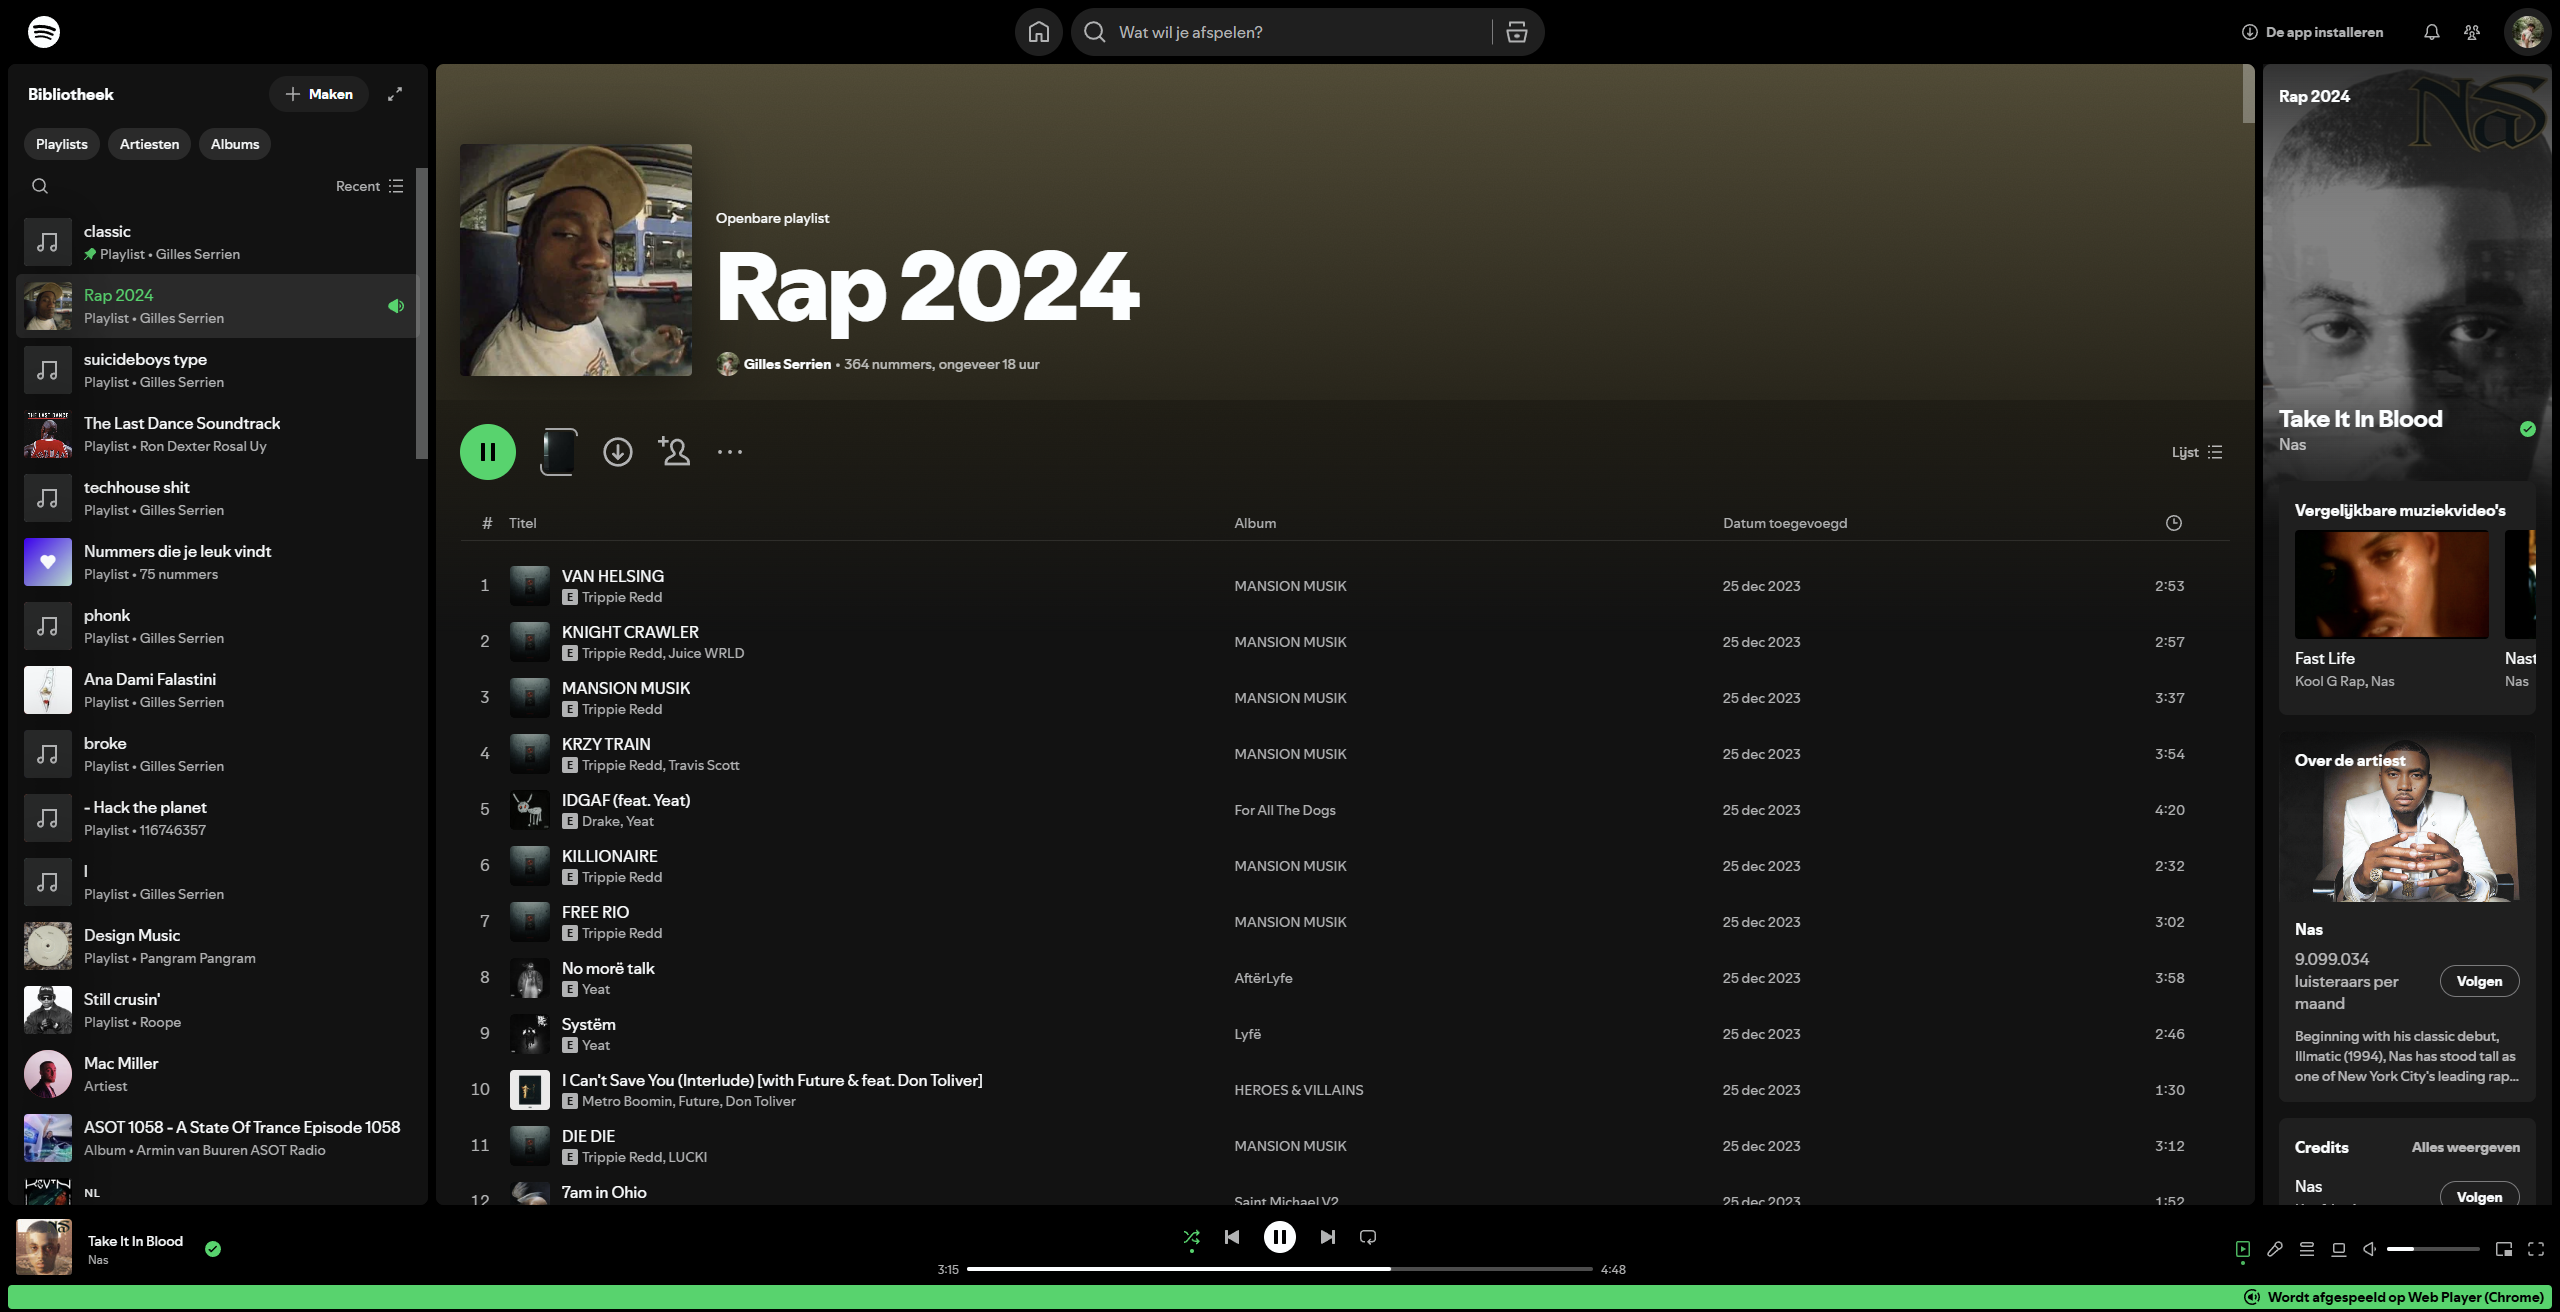
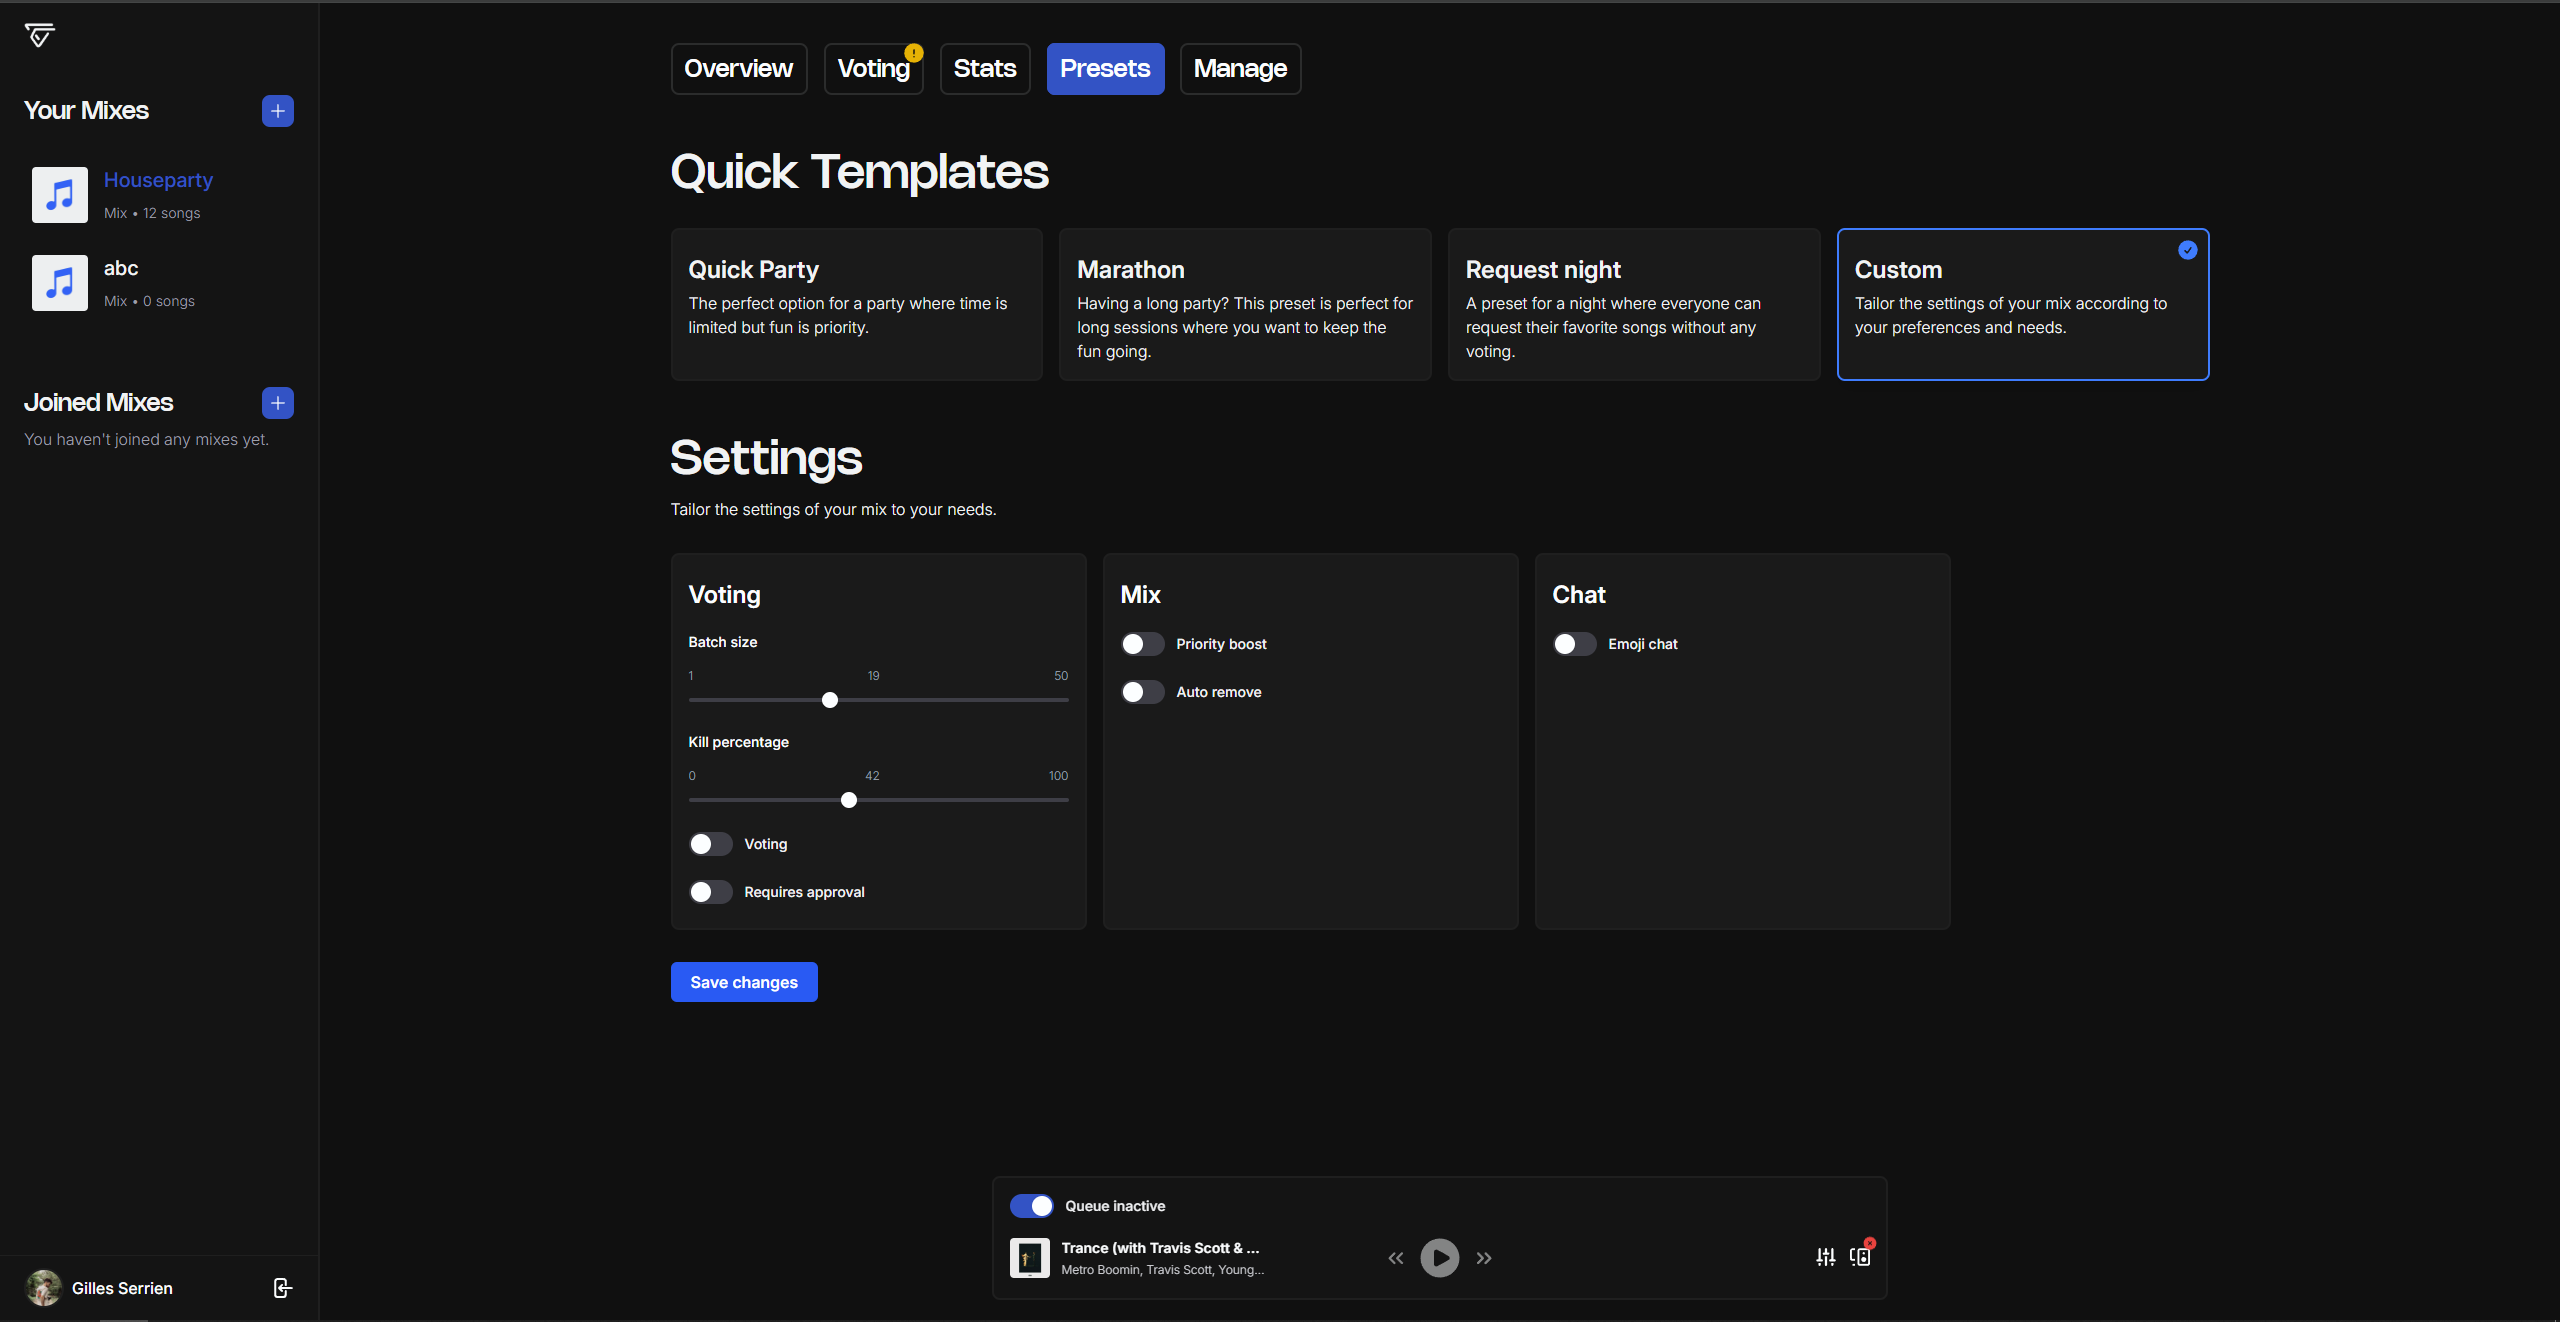
landing page changes

diff --git a/resources/css/landing.css b/resources/css/landing.css
@@ -138,10 +138,11 @@ body {
 
 .carousel-progress {
     position: relative;
-    max-width: 1000px;
+    max-width: 550px;
     top: 0px;
     height: 8px;
-    width: 80%;
+    width: 30dvw;
+    min-width: 350px;
     margin: -8px auto 0 auto;
     background-color: var(--color-card-background);
     border: 1px solid var(--color-card-stroke);
@@ -156,7 +157,7 @@ body {
     background-color: var(--color-primary);
     border-radius: 12px;
     animation-name: progress;
-    animation-duration: 5s;
+    animation-duration: 8s;
     animation-timing-function: linear;
     animation-iteration-count: 1;
 }

diff --git a/resources/views/partials/faq.blade.php b/resources/views/partials/faq.blade.php
@@ -8,20 +8,28 @@
     @php
         $faqs = [
             [
-                'question' => 'Do I need Spotify premium to use this platform?',
-                'answer' => 'Lorem ipsum dolor sit amet, consectetur adipiscing elit...',
+                'question' => 'How does the playback work?',
+                'answer' =>
+                    'Playback works by using the Spotify API to control the playback of your spotify device. You can play, pause, skip, and seek through the track using the playback controls on the web app. You can also see what track is currently playing and who is currently playing it!',
             ],
             [
-                'question' => 'How does voting work during a jam?',
-                'answer' => 'Lorem ipsum dolor sit amet, consectetur adipiscing elit...',
+                'question' => 'Do I need Spotify premium to use this platform?',
+                'answer' =>
+                    'Technically, no. However, you do need Spotify Premium to use our playback feature. You can always assign another Premium user as the co-DJ to allow playback.',
             ],
             [
                 'question' => 'Is this web application free?',
-                'answer' => 'Lorem ipsum dolor sit amet, consectetur adipiscing elit...',
+                'answer' =>
+                    'Yes! This web application is completely free to use. We do not charge any fees for using the platform. We might however add a some "premium" features in the future, but the core functionality will always be free.',
             ],
             [
-                'question' => 'Can I customize the look and theme of my jam session?',
-                'answer' => 'Lorem ipsum dolor sit amet, consectetur adipiscing elit...',
+                'question' => 'Do you use my Spotify data?',
+                'answer' => 'For more information on data, please refer to our privacy policy.',
+            ],
+            [
+                'question' => 'Can I customize the look and theme of my mix session?',
+                'answer' =>
+                    'Of course! We have a few themes - birthday party, halloween, .. - to choose from with some customization options. You can also add a custom cover image to your mix session.',
             ],
         ];
     @endphp
@@ -39,7 +47,7 @@
 
                 <div class="relative overflow-hidden transition-all max-h-0 duration-400" x-ref="container"
                     x-bind:style="open ? 'max-height: ' + $refs.container.scrollHeight + 'px' : ''">
-                    <div class="px-4 pb-4">
+                    <div class="px-4 pb-4 max-w-7xl">
                         <p class="text-l font-normal">{{ $faq['answer'] }}</p>
                     </div>
                 </div>

diff --git a/resources/views/partials/how-it-works.blade.php b/resources/views/partials/how-it-works.blade.php
@@ -2,20 +2,21 @@
     $steps = [
         [
             'step' => '1',
-            'title' => 'Create a jam',
+            'title' => 'Create a mix',
             'description' =>
-                'Easily create a new jam session with your Spotify Premium account. Share the unique session code and invite friends to join.',
+                'Easily create a new mix with your Spotify account. Create a unique session code and invite your friends to join.',
         ],
         [
             'step' => '2',
             'title' => 'Add music & vote',
-            'description' => 'Everyone can add songs via Spotify links and vote for their favorite tracks.',
+            'description' =>
+                'Everyone with the right permissions can add songs via a simple search and vote for their favorite tracks.',
         ],
         [
             'step' => '3',
             'title' => 'Listen & enjoy',
             'description' =>
-                'The owner or appointed co-DJ plays the music live. Watch votes in real-time, chat with emojis, and discover the best vibes together.',
+                'The owner or appointed co-DJ plays the music live. Watch votes in real-time, react with emojis, and discover the best vibes together.',
         ],
     ];
 @endphp
@@ -32,7 +33,8 @@
             <div class="bg-card-background p-4 rounded-lg border-2 border-card-stroke">
                 <div class="flex flex-row gap-4 items-center mb-4">
                     <span
-                        class="font-headings text-2xl md:text-3xl bg-primary rounded-full w-12 h-12 flex items-center justify-center text-white">{{ $step['step'] }}</span>
+                        class="font-headings text-2xl md:text-3xl bg-primary rounded-full w-12 h-12 flex items-center justify-center text-white leading-none pt-[2px]">
+                        {{ $step['step'] }}</span>
                     <h3 class="text-2xl md:text-3xl">{{ $step['title'] }}</h3>
                 </div>
                 <p class="text-xl font-normal">{{ $step['description'] }}</p>

diff --git a/resources/views/layouts/landing.blade.php b/resources/views/layouts/landing.blade.php
@@ -9,11 +9,11 @@
     <title>@yield('title', 'Tunofy - The music platform you need')</title>
 
     {{-- SEO Meta --}}
-    <meta name="description" content="@yield('meta_description', 'Tunofy lets you create collaborative Spotify jam sessions.')">
+    <meta name="description" content="@yield('meta_description', 'Tunofy lets you create collaborative Spotify mix sessions.')">
 
     {{-- Open Graph --}}
-    <meta property="og:title" content="@yield('og_title', 'Tunofy - Host the Ultimate Spotify Jam Session')">
-    <meta property="og:description" content="@yield('og_description', 'Start Spotify jam sessions with Tunofy...')">
+    <meta property="og:title" content="@yield('og_title', 'Tunofy - Host the Ultimate Spotify mix Session')">
+    <meta property="og:description" content="@yield('og_description', 'Start Spotify mix sessions with Tunofy...')">
     <meta property="og:type" content="website">
     <meta property="og:url" content="@yield('og_url', url('/'))">
     @hasSection('og_image')

diff --git a/resources/views/termsofuse.blade.php b/resources/views/termsofuse.blade.php
@@ -1,7 +1,7 @@
 @extends('layouts.landing')
 
 @section('title', 'Terms of Use | Tunofy')
-@section('meta_description', "Learn about Tunofy's terms of use and how we make your Spotify jam sessions better.")
+@section('meta_description', "Learn about Tunofy's terms of use and how we make your Spotify mix sessions better.")
 @section('og_url', url('/terms-of-use'))
 {{-- @section('og_image', asset('images/social-preview.jpg'))
 @section('twitter_image', asset('images/twitter-preview.jpg')) --}}

diff --git a/resources/views/landing.blade.php b/resources/views/landing.blade.php
@@ -1,7 +1,7 @@
 @extends('layouts.landing')
 
 @section('title', 'Tunofy - The music platform you need')
-@section('meta_description', 'Jam together using Spotify! Add tracks, vote, and control the vibe.')
+@section('meta_description', 'Vibe together using Spotify! Add tracks, vote, and control the vibe.')
 @section('og_url', url('/'))
 {{-- @section('og_image', asset('images/social-preview.jpg'))
 @section('twitter_image', asset('images/twitter-preview.jpg')) --}}
